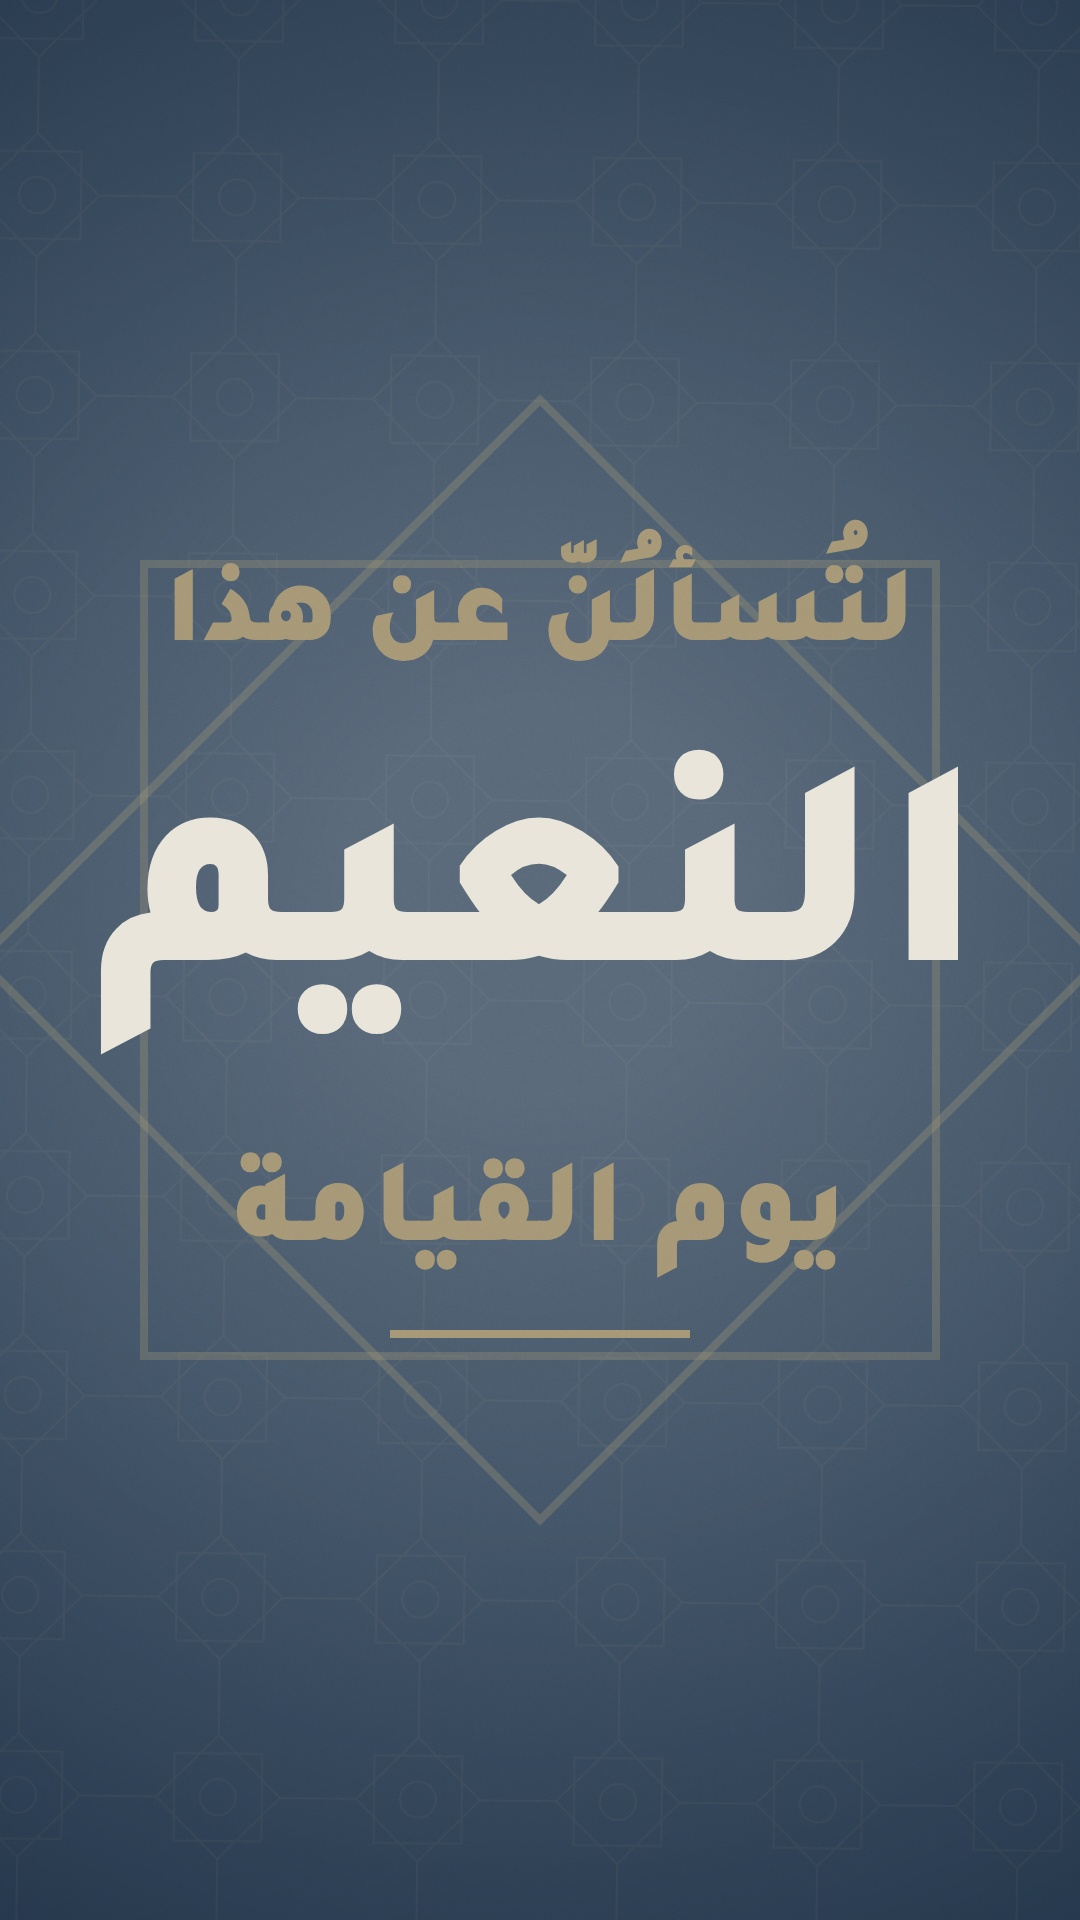
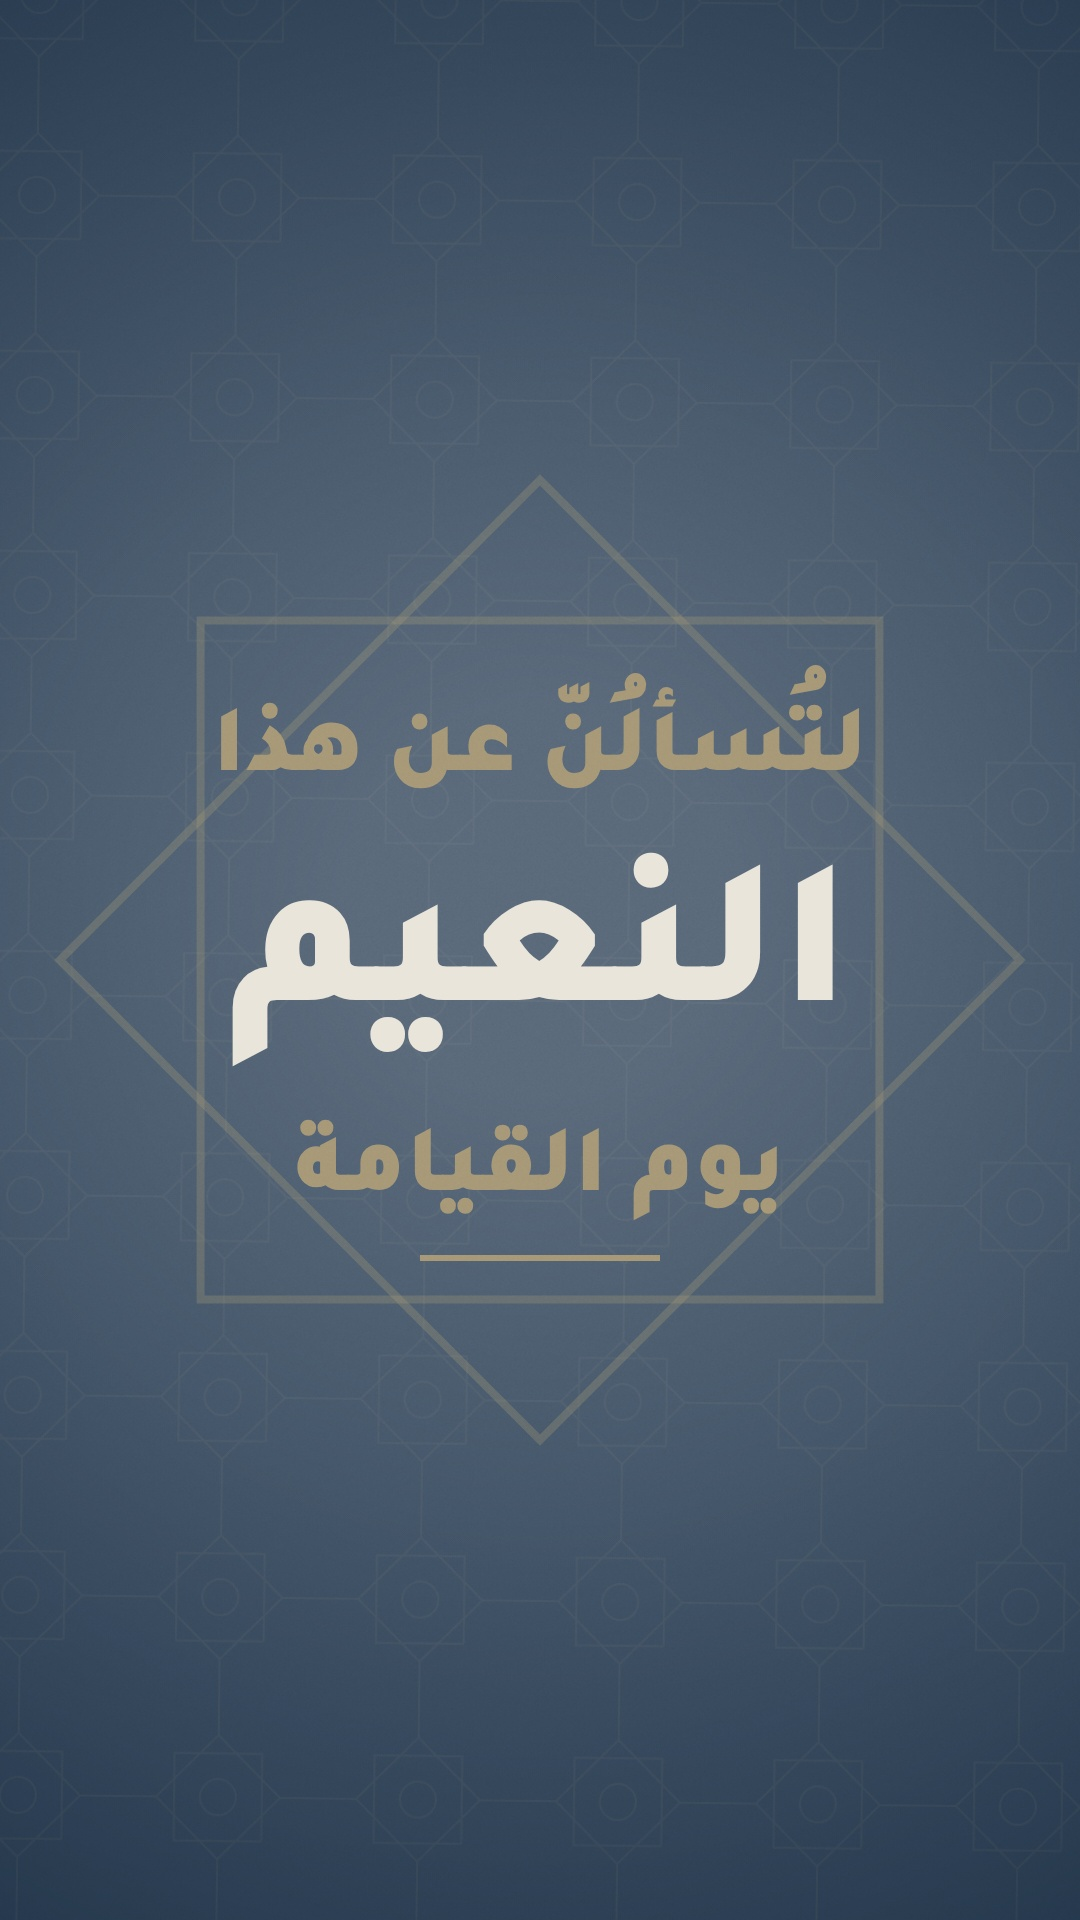
Resize cover text for better balance
Claude-Session: https://claude.ai/code/session_01RYF7NzVMFF9ziuLfLY8EVk

diff --git a/motion-work/cover3/scenes/c1.js b/motion-work/cover3/scenes/c1.js
@@ -13,11 +13,11 @@ MOTION.scene({ id: 'c1', start: 0, end: 3,
     } else if (v === 1) {
       bg(ctx, 3, { color: v === 1 ? P.ink : P.acc, pat: 0.07 });
       X.save(); X.globalAlpha = 0.3; X.strokeStyle = P.hi; X.lineWidth = 8; X.translate(540, 960);
-      for (const r0 of [0, Math.PI / 4]) { X.beginPath(); for (let i = 0; i < 4; i++) { const a = r0 + i * Math.PI / 2; X[i ? 'lineTo' : 'moveTo'](560 * Math.cos(a), 560 * Math.sin(a)); } X.closePath(); X.stroke(); } X.restore();
-      ctx.text(X, 'النعيم', 540, 960, { family: FAM, weight: 900, size: 300, color: P.bg });
-      ctx.text(X, 'لتُسألُنّ عن هذا', 540, 640, { family: FAM, weight: 900, size: 110, color: P.hi });
-      ctx.text(X, 'يوم القيامة', 540, 1240, { family: FAM, weight: 900, size: 120, color: P.hi });
-      X.save(); X.fillStyle = P.hi; X.fillRect(390, 1330, 300, 8); X.restore();
+      for (const r0 of [0, Math.PI / 4]) { X.beginPath(); for (let i = 0; i < 4; i++) { const a = r0 + i * Math.PI / 2; X[i ? 'lineTo' : 'moveTo'](480 * Math.cos(a), 480 * Math.sin(a)); } X.closePath(); X.stroke(); } X.restore();
+      ctx.text(X, 'النعيم', 540, 1000, { family: FAM, weight: 900, size: 210, color: P.bg });
+      ctx.text(X, 'لتُسألُنّ عن هذا', 540, 770, { family: FAM, weight: 900, size: 96, color: P.hi });
+      ctx.text(X, 'يوم القيامة', 540, 1190, { family: FAM, weight: 900, size: 96, color: P.hi });
+      X.save(); X.fillStyle = P.hi; X.fillRect(420, 1255, 240, 6); X.restore();
     } else {
       bg(ctx, 3, { pat: 0.12 });
       ctx.text(X, 'خرجوا من', 540, 560, { family: FAM, weight: 700, size: 70, color: P.mut });
